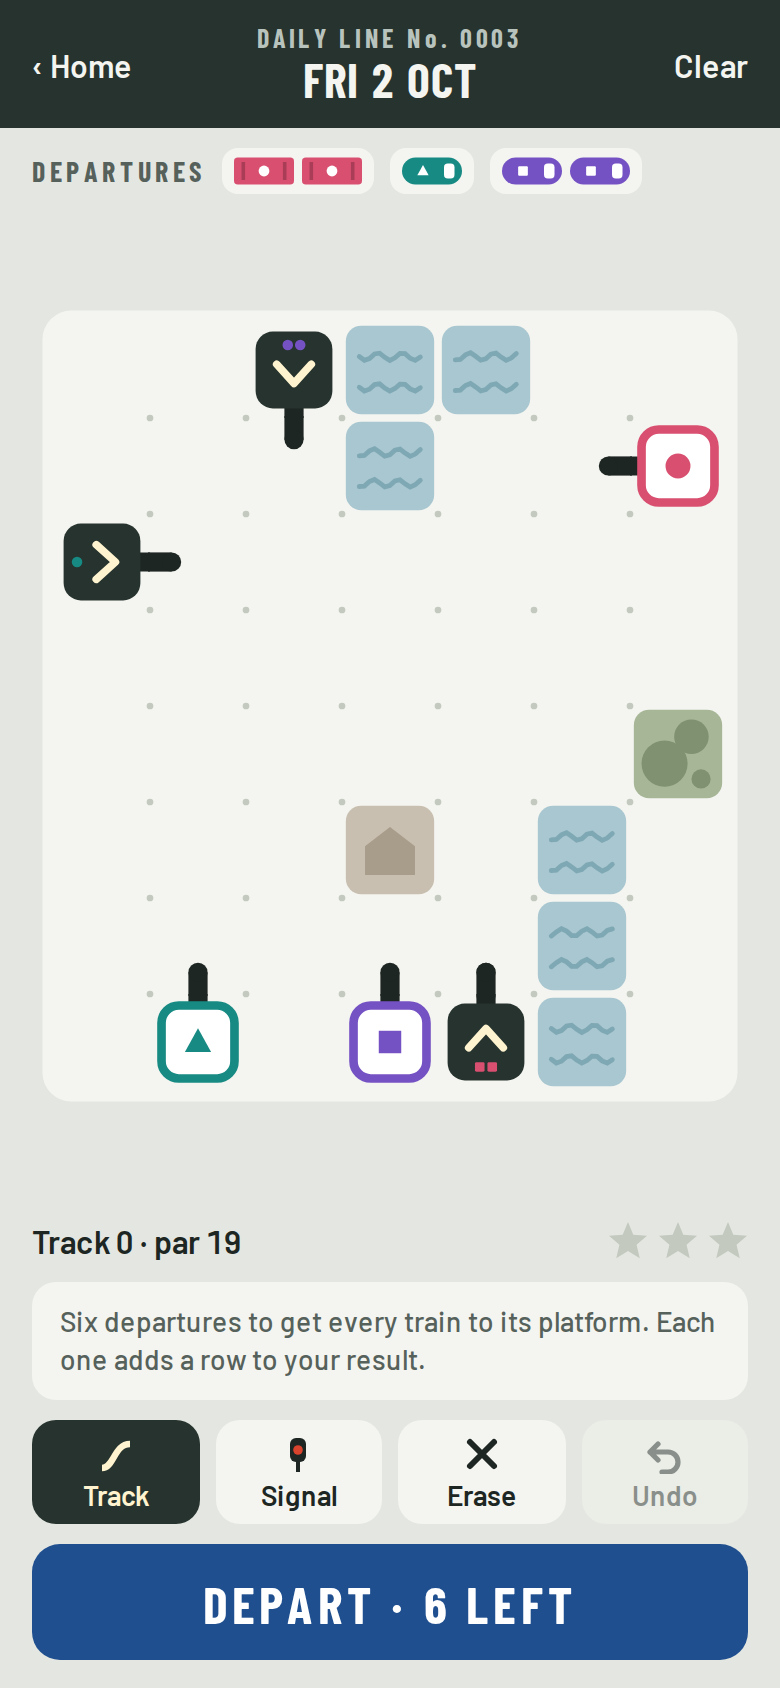
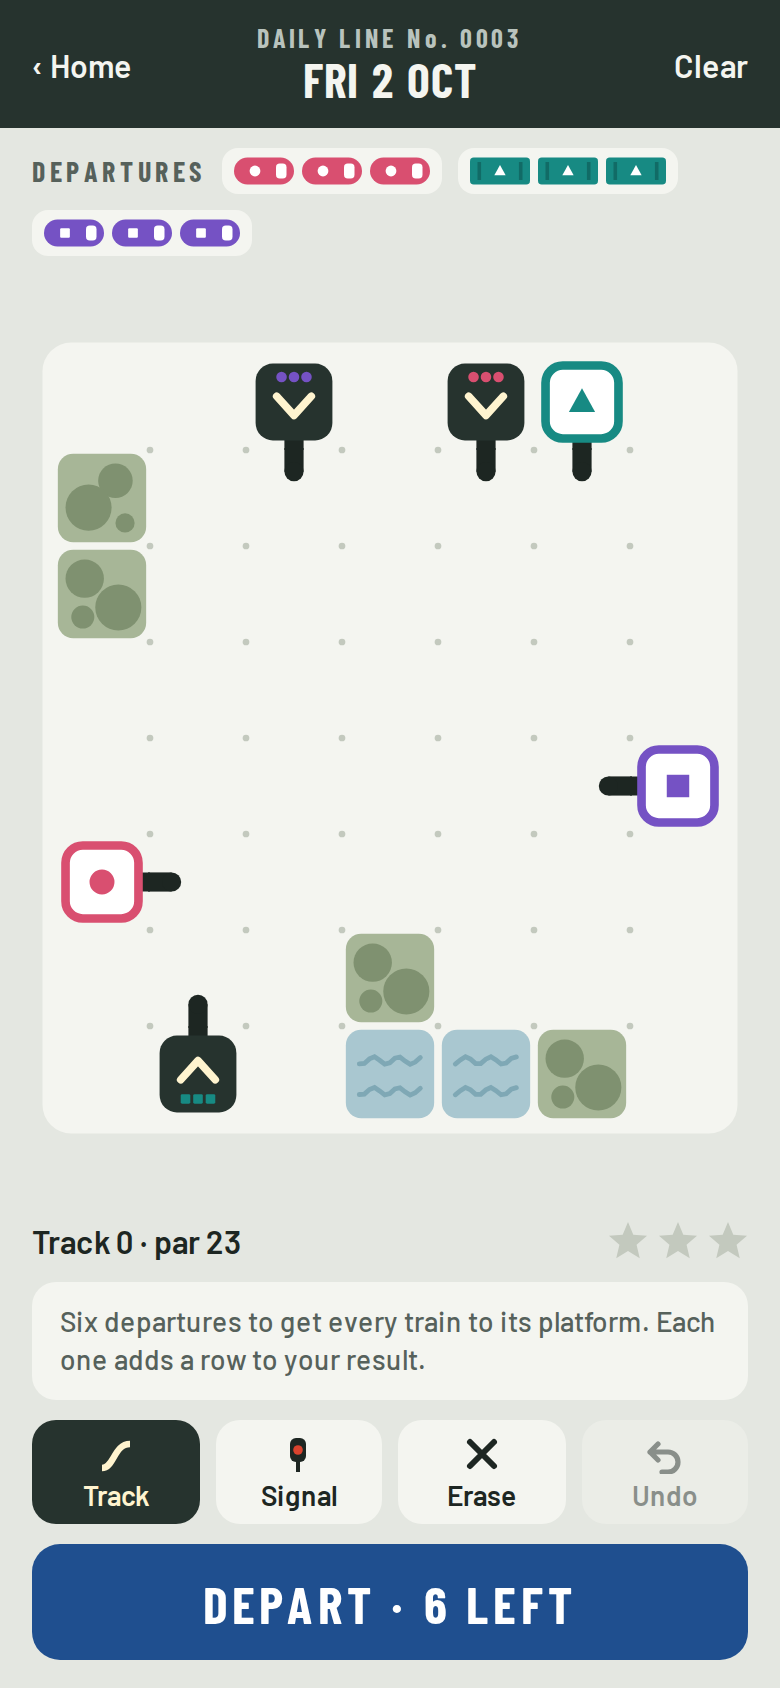
Hold the Daily Line to a difficulty floor from No. 0003
Every day from 2 Oct 2026 must need a signal: the generator's own track
crashes without a stop, and a new solver finds no track-only layout
within three pieces of par. Weekends also need a colour signal. Depots
send three trains, and each weekday has a minimum par. No. 0001 and
No. 0002 are generated exactly as before.

Claude-Session: https://claude.ai/code/session_01RPEsW5DwKxrhFNCzueEJad

diff --git a/src/core/solver.ts b/src/core/solver.ts
@@ -1,0 +1,223 @@
+// Looks for a way to solve a puzzle with track alone: no stop signals and no colour lamps.
+// The Daily Line uses it to show that a day needs at least one signal decision.
+//
+// A depot that sends trains of two colours always needs a lamp: without one, every train
+// takes the same way through every switch. Otherwise each depot's trains run one line from
+// its port to their platform. The search tries every pair (or triple) of simple lines that
+// fit the track budget, where lines may only meet by crossing at right angles, and runs
+// each combination that survives the timing check in the simulator.
+//
+// What it does not try: lines that share track through switches, and lines that loop over
+// themselves. Both cost extra track, so inside a tight budget they rarely matter.
+
+import { Layout } from "./layout";
+import { type Cell, type Dir, DIRS, type Puzzle, ckey, edgeKey, opp, step } from "./puzzle";
+import { run } from "./sim";
+
+const MAX_PATHS = 6000; // per line; beyond this the search gives up
+const CROSS_ALLOWANCE = 2; // crossings each other line may save, used to bound line length
+
+export type SignalFree = { kind: "lamp-needed" } | { kind: "none-found" } | { kind: "found"; layout: Layout } | { kind: "too-big" };
+
+interface Line {
+  cells: number[]; // cell indices, port to port
+  shape: number[]; // per cell: 0 can't be crossed, 1 straight east-west, 2 straight north-south
+  track: number; // buildable cells
+  times: number[][]; // per cell: beats at which a train enters it
+}
+
+export function signalFree(pz: Puzzle, budget: number): SignalFree {
+  if (pz.depots.some((dp) => new Set(dp.trains).size > 1)) return { kind: "lamp-needed" };
+  const lines: Line[][] = [];
+  const shortest: number[] = [];
+  for (const dp of pz.depots) {
+    const st = pz.stations.filter((s) => s.color === dp.trains[0]);
+    const min = Math.min(...st.map((s) => shortestTrack(pz, dp.pos, dp.dir, s.pos, s.dir)));
+    if (!Number.isFinite(min)) return { kind: "none-found" };
+    shortest.push(min);
+  }
+  const total = shortest.reduce((a, b) => a + b, 0);
+  for (let i = 0; i < pz.depots.length; i++) {
+    const dp = pz.depots[i];
+    const limit = budget - (total - shortest[i]) + CROSS_ALLOWANCE * (pz.depots.length - 1);
+    const found: Line[] = [];
+    for (const st of pz.stations.filter((s) => s.color === dp.trains[0])) {
+      if (!enumerate(pz, i, st.pos, st.dir, limit, found)) return { kind: "too-big" };
+    }
+    if (found.length === 0) return { kind: "none-found" };
+    found.sort((a, b) => a.track - b.track);
+    lines.push(found);
+  }
+
+  const goods = pz.depots.some((dp) => dp.goods);
+  const order = lines.map((_, i) => i).sort((a, b) => lines[a].length - lines[b].length);
+  const occ = new Int32Array(pz.w * pz.h).fill(-1); // index into `chosen`, or -1
+  const chosen: Line[] = [];
+  // Least track the lines still to pick can add, if each crosses everything it may.
+  const save = CROSS_ALLOWANCE * (order.length - 1);
+  const minRest = order.map((_, k) => order.slice(k + 1).reduce((n, i) => n + Math.max(0, shortest[i] - save), 0));
+
+  const pick = (k: number, track: number): Layout | null => {
+    if (k === order.length) {
+      const lay = layoutOf(pz, chosen);
+      return run(pz, lay).success ? lay : null;
+    }
+    for (const line of lines[order[k]]) {
+      // Lines are sorted by track, so once even the best case is over budget, stop.
+      if (track + line.track - save + minRest[k] > budget) break;
+      let crossings = 0;
+      let ok = true;
+      for (let c = 0; c < line.cells.length && ok; c++) {
+        const at = line.cells[c];
+        if (occ[at] < 0) continue;
+        const other = chosen[occ[at]];
+        const oc = other.cells.indexOf(at);
+        if (line.shape[c] === 0 || other.shape[oc] === 0 || line.shape[c] === other.shape[oc]) ok = false;
+        // Without goods trains nobody ever stands still, so meeting at a crossing is a crash.
+        else if (!goods && line.times[c].some((t) => other.times[oc].includes(t))) ok = false;
+        else crossings += 1;
+      }
+      if (!ok) continue;
+      const next = track + line.track - crossings;
+      if (next + minRest[k] > budget) continue;
+      chosen.push(line);
+      for (const at of line.cells) if (occ[at] < 0) occ[at] = chosen.length - 1;
+      const hit = pick(k + 1, next);
+      chosen.pop();
+      for (const at of line.cells) if (occ[at] === chosen.length) occ[at] = -1;
+      if (hit) return hit;
+    }
+    return null;
+  };
+  const layout = pick(0, 0);
+  return layout ? { kind: "found", layout } : { kind: "none-found" };
+}
+
+// The sides of a cell that already carry board track (depot and platform stubs, tunnels).
+function staticDirs(pz: Puzzle, c: Cell): Dir[] {
+  const fixed = pz.staticEdges();
+  return DIRS.filter((d) => fixed.has(edgeKey(c, d)));
+}
+
+// Can a line step from `c` to its neighbour on side `out`?
+function canStep(pz: Puzzle, c: Cell, inSide: Dir, out: Dir): boolean {
+  if (out === inSide) return false;
+  if (pz.inTunnel(c) && out !== opp(inSide)) return false;
+  // Board track on the cell has to be part of the line, or the cell becomes a switch.
+  if (staticDirs(pz, c).some((d) => d !== inSide && d !== out)) return false;
+  const n = step(c, out);
+  if (!pz.inside(n)) return false;
+  if (pz.inTunnel(n)) return pz.staticEdges().has(edgeKey(c, out));
+  return pz.buildable(n);
+}
+
+function shortestTrack(pz: Puzzle, dpPos: Cell, dpDir: Dir, stPos: Cell, stDir: Dir): number {
+  const start = step(dpPos, dpDir);
+  const goal = step(stPos, stDir);
+  const sk = (c: Cell, d: Dir) => `${ckey(c)},${d}`;
+  const dist = new Map<string, number>([[sk(start, opp(dpDir)), 1]]);
+  const queue: [Cell, Dir][] = [[start, opp(dpDir)]];
+  // Breadth first over (cell, side entered); every cell costs one, tunnels nothing, so a
+  // 0-1 deque keeps it exact.
+  while (queue.length > 0) {
+    const [c, inSide] = queue.shift()!;
+    const d0 = dist.get(sk(c, inSide))!;
+    if (c.x === goal.x && c.y === goal.y && canFinish(pz, c, inSide, stDir)) return d0;
+    for (const out of DIRS) {
+      if (!canStep(pz, c, inSide, out)) continue;
+      const n = step(c, out);
+      const cost = pz.inTunnel(n) ? 0 : 1;
+      const key = sk(n, opp(out));
+      if (dist.has(key) && dist.get(key)! <= d0 + cost) continue;
+      dist.set(key, d0 + cost);
+      if (cost === 0) queue.unshift([n, opp(out)]);
+      else queue.push([n, opp(out)]);
+    }
+  }
+  return Infinity;
+}
+
+// A line ends at the platform port, leaving by the side that faces the platform.
+function canFinish(pz: Puzzle, c: Cell, inSide: Dir, stDir: Dir): boolean {
+  const out = opp(stDir);
+  if (out === inSide) return false;
+  return staticDirs(pz, c).every((d) => d === inSide || d === out);
+}
+
+// Every simple line from depot `di` to the platform at `stPos` with at most `limit` track.
+// Returns false if there are too many to search.
+function enumerate(pz: Puzzle, di: number, stPos: Cell, stDir: Dir, limit: number, out: Line[]): boolean {
+  const dp = pz.depots[di];
+  const start = step(dp.pos, dp.dir);
+  const goal = step(stPos, stDir);
+  const idx = (c: Cell) => c.y * pz.w + c.x;
+  const seen = new Uint8Array(pz.w * pz.h);
+  const cells: Cell[] = [];
+  const sides: [Dir, Dir][] = [];
+  let overflow = false;
+  const beat = dp.goods ? 2 : 1;
+  const departs = dp.trains.map((_, k) => dp.start + k * dp.every);
+
+  const record = () => {
+    const shape = cells.map((c, i) => {
+      const [a, b] = sides[i];
+      if (pz.inTunnel(c) || staticDirs(pz, c).length > 0 || a !== opp(b)) return 0;
+      return a === DIRS[1] || a === DIRS[3] ? 1 : 2;
+    });
+    const times = cells.map((_, i) => departs.map((t) => t + 1 + i * beat));
+    const track = cells.filter((c) => !pz.inTunnel(c)).length;
+    out.push({ cells: cells.map(idx), shape, track, times });
+    if (out.length > MAX_PATHS) overflow = true;
+  };
+
+  const walk = (c: Cell, inSide: Dir, track: number) => {
+    if (overflow) return;
+    const remaining = Math.abs(c.x - goal.x) + Math.abs(c.y - goal.y);
+    if (track + remaining > limit + tunnelSlack(pz)) return;
+    seen[idx(c)] = 1;
+    cells.push(c);
+    if (c.x === goal.x && c.y === goal.y) {
+      if (canFinish(pz, c, inSide, stDir) && track <= limit) {
+        sides.push([inSide, opp(stDir)]);
+        record();
+        sides.pop();
+      }
+    } else {
+      for (const o of DIRS) {
+        if (!canStep(pz, c, inSide, o)) continue;
+        const n = step(c, o);
+        if (seen[idx(n)]) continue;
+        sides.push([inSide, o]);
+        walk(n, opp(o), track + (pz.inTunnel(n) ? 0 : 1));
+        sides.pop();
+      }
+    }
+    cells.pop();
+    seen[idx(c)] = 0;
+  };
+  walk(start, opp(dp.dir), 1);
+  return !overflow;
+}
+
+// Tunnel cells are free, so the distance bound has to allow for them.
+function tunnelSlack(pz: Puzzle): number {
+  return pz.tunnels.reduce((n, tn) => n + tn.cells.length, 0);
+}
+
+function layoutOf(pz: Puzzle, lines: Line[]): Layout {
+  const lay = new Layout();
+  const fixed = pz.staticEdges();
+  for (const line of lines) {
+    for (let i = 0; i < line.cells.length - 1; i++) {
+      const a = { x: line.cells[i] % pz.w, y: Math.floor(line.cells[i] / pz.w) };
+      const b = line.cells[i + 1];
+      const d = DIRS.find((dd) => {
+        const n = step(a, dd);
+        return n.y * pz.w + n.x === b && pz.inside(n);
+      })!;
+      const key = edgeKey(a, d);
+      if (!fixed.has(key)) lay.edges.add(key);
+    }
+  }
+  return lay;
+}

diff --git a/src/core/daily.ts b/src/core/daily.ts
@@ -4,13 +4,26 @@
 // The generator lays out a working solution first (routes found across the grid, with
 // crossings, a sorting switch or a tunnel where the day calls for them), checks it in the
 // simulator, adding a stop signal if trains collide, and uses its track count as par.
+//
+// From No. 0003 every day also has to clear a floor: its trains must collide on the
+// generator's own track, so the solution needs a stop signal, and the solver must find no
+// way to get within FLOOR_SLACK pieces of par with track alone (see solver.ts). Every
+// depot sends three trains, two or three beats apart, so lines are busy enough that
+// timing matters. Weekends add a sorting switch, which
+// can't be solved at all without a colour signal. No. 0001 and No. 0002 came out before the
+// floor and are generated exactly as they were.
 
 import { Layout } from "./layout";
 import { type Cell, DIRS, type Depot, type Dir, E, N, Puzzle, S, W, ckey, dirBetween, edgeKey, opp, step, tunnel } from "./puzzle";
 import { run } from "./sim";
+import { signalFree } from "./solver";
 
 export const DEPARTURES = 6;
 const EPOCH_UTC = Date.UTC(2026, 8, 30); // Daily Line No. 1
+export const FLOOR_FROM = 3; // first day held to the difficulty floor (Fri 2 Oct 2026)
+// Detours shift a train's timing two beats per two extra pieces, so a slack of 3 means
+// dodging a collision without a signal costs at least four extra pieces.
+const FLOOR_SLACK = 3;
 const MONTHS = ["JAN", "FEB", "MAR", "APR", "MAY", "JUN", "JUL", "AUG", "SEP", "OCT", "NOV", "DEC"];
 const WEEKDAYS = ["SUN", "MON", "TUE", "WED", "THU", "FRI", "SAT"];
 
@@ -42,12 +55,15 @@ interface Profile {
   trains: number;
   tunnel: boolean;
   goods: boolean;
+  floor: boolean; // held to the difficulty floor
+  minPar: number;
 }
 
 // Early in the week two lines, midweek three. Thursday adds a ridge with a tunnel, Friday
 // a goods train, Saturday a sorting switch, and Sunday a sorting switch and a tunnel.
 function profile(day: number): Profile {
-  const base = { tunnel: false, goods: false };
+  if (day >= FLOOR_FROM) return floorProfile(day);
+  const base = { tunnel: false, goods: false, floor: false, minPar: 0 };
   switch (dateOf(day).getUTCDay()) {
     case 1:
     case 2:
@@ -62,6 +78,28 @@ function profile(day: number): Profile {
       return { ...base, w: 7, h: 8, routes: 3, sort: false, trains: 2, goods: true };
     default:
       return { ...base, w: 7, h: 8, routes: 3, sort: false, trains: 2 };
+  }
+}
+
+// The same week once the floor applies, with a minimum track count that climbs from a
+// small Monday board to the busiest midweek ones.
+function floorProfile(day: number): Profile {
+  const base = { tunnel: false, goods: false, floor: true, sort: false, trains: 3 };
+  switch (dateOf(day).getUTCDay()) {
+    case 1:
+      return { ...base, w: 6, h: 7, routes: 2, minPar: 10 };
+    case 2:
+      return { ...base, w: 7, h: 8, routes: 2, minPar: 13 };
+    case 3:
+      return { ...base, w: 7, h: 8, routes: 3, minPar: 16 };
+    case 4:
+      return { ...base, w: 7, h: 8, routes: 3, minPar: 16, tunnel: true };
+    case 5:
+      return { ...base, w: 7, h: 8, routes: 3, minPar: 16, goods: true };
+    case 6:
+      return { ...base, w: 7, h: 8, routes: 2, minPar: 15, sort: true };
+    default:
+      return { ...base, w: 7, h: 8, routes: 2, minPar: 15, sort: true, tunnel: true };
   }
 }
 
@@ -144,9 +182,10 @@ function attemptOnce(rng: Rng, prof: Profile): Puzzle | null {
     reserved.add(ckey(step(st.pos, st.dir)));
     mark(pz, used, path);
     const trains: number[] = [];
-    const count = rng.int(1, prof.trains);
+    const count = prof.floor ? prof.trains : rng.int(1, prof.trains);
     for (let i = 0; i < count; i++) trains.push(color);
-    const depot: Depot = { pos: dp.pos, dir: dp.dir, trains, start: rng.int(0, 2), every: 3, goods: false };
+    const every = prof.floor ? rng.int(2, 3) : 3;
+    const depot: Depot = { pos: dp.pos, dir: dp.dir, trains, start: rng.int(0, 2), every, goods: false };
     pz.depots.push(depot);
     pz.stations.push({ pos: st.pos, dir: st.dir, color });
     paths.push([dp.pos, ...path.map((s) => s.cell), st.pos]);
@@ -175,9 +214,18 @@ function attemptOnce(rng: Rng, prof: Profile): Puzzle | null {
     if (!stop) return null;
     pz.solution.stops = [stop];
     lay.stops.add(ckey(stop));
+  } else if (prof.floor) {
+    return null; // nothing collides, so no signal is needed
   }
   pz.par = lay.trackCount(pz);
+  if (prof.floor && (pz.par < prof.minPar || !meetsFloor(pz))) return null;
   return pz;
+}
+
+// The floor: with track alone, a player must not get within FLOOR_SLACK pieces of par.
+export function meetsFloor(pz: Puzzle): boolean {
+  const kind = signalFree(pz, pz.par + FLOOR_SLACK).kind;
+  return kind === "lamp-needed" || kind === "none-found";
 }
 
 function placeObstacles(rng: Rng, pz: Puzzle): void {

diff --git a/tests/core.test.ts b/tests/core.test.ts
@@ -1,5 +1,5 @@
 import { describe, expect, it } from "vitest";
-import { dateLabel, generate, today } from "../src/core/daily";
+import { FLOOR_FROM, dateLabel, generate, meetsFloor, today } from "../src/core/daily";
 import { Layout } from "../src/core/layout";
 import { LEVELS, loadLevel } from "../src/core/levels";
 import { type LevelData, Puzzle, W, cell, edgeCells } from "../src/core/puzzle";
@@ -190,6 +190,27 @@ describe("daily line", () => {
       expect(run(pz, pz.solutionLayout()).success, `day ${day}`).toBe(true);
       expect(pz.par).toBeGreaterThan(0);
     }
+  }, 60_000);
+
+  it("needs at least one signal every day from No. 0003", () => {
+    for (let day = FLOOR_FROM; day < FLOOR_FROM + 400; day++) {
+      const pz = generate(day); // cached by the test above
+      // The generator's own track crashes without its stop signal.
+      const bare = pz.solutionLayout();
+      bare.stops.clear();
+      expect(pz.solution.stops.length, `day ${day}`).toBeGreaterThan(0);
+      expect(run(pz, bare).success, `day ${day}`).toBe(false);
+      // And the solver finds no track-only layout near par.
+      expect(meetsFloor(pz), `day ${day}`).toBe(true);
+      expect(pz.trainCount(), `day ${day}`).toBeGreaterThanOrEqual(5);
+    }
+  }, 60_000);
+
+  it("keeps No. 0001 and No. 0002 as they were released", () => {
+    const one = generate(1, false);
+    const two = generate(2, false);
+    expect([one.par, one.depots.map((d) => d.trains.join("")).join("|")]).toEqual([15, "0|1|2"]);
+    expect([two.par, two.depots.map((d) => d.trains.join("")).join("|")]).toEqual([21, "00|1|2"]);
   });
 
   it("is deterministic", () => {

diff --git a/docs/DESIGN.md b/docs/DESIGN.md
@@ -93,7 +93,7 @@ and, where it uses signals, that it fails without them.
 One puzzle for everyone each day, generated from the date, so every player gets the same board with no server.
 
 - Number: days since 30 Sep 2026, starting at No. 0001. Uses the player's local date, as Wordle does.
-- Difficulty follows the week: two lines Monday and Tuesday, three from Wednesday, with a ridge and tunnel on Thursday,
+- Difficulty follows the week, above a floor that always needs a signal (below): two lines Monday and Tuesday, three from Wednesday, with a ridge and tunnel on Thursday,
   a goods train on Friday, a colour-sorting switch on Saturday, and sorting plus a tunnel on Sunday.
 - Six departures. Each departure adds a row of squares, one per train: green arrived, amber wrong platform, red crashed or lost.
 - The result copies as a short text grid with the puzzle number, departures used, and track against par.
@@ -101,3 +101,16 @@ One puzzle for everyone each day, generated from the date, so every player gets 
 
 The generator builds a working solution first (routes found on the grid, crossings and switches where they meet, straight through a tunnel where one is cheaper), checks it in the simulator, then removes the track.
 Par is the track count of that solution, so every Daily Line is known to be solvable.
+
+### Difficulty floor (from No. 0003, 2 Oct 2026)
+
+Every day has to need at least one signal. The generator keeps trying boards until one clears the floor:
+
+- Each depot sends three trains, two or three beats apart, so the lines are busy.
+- The generator's own track must crash without a stop signal, and a single stop must fix it.
+- A solver (`src/core/solver.ts`) searches every track-only layout of separate lines crossing at right angles. None may get within three pieces of par. Because a detour shifts timing two beats per two pieces, dodging the collision without a signal costs at least four extra pieces.
+- Saturday and Sunday also send two colours from one depot, which can't be solved at all without a colour signal.
+- A minimum par per weekday keeps boards from being trivially small: Monday 10, Tuesday 13, Wednesday to Friday 16, weekend 15.
+
+No. 0001 and No. 0002 came out before the floor and are generated exactly as they were. The unit tests check the floor on 400 days.
+The solver doesn't try lines that share track through switches or loop over themselves; both cost extra track, so within the budget they rarely matter.
